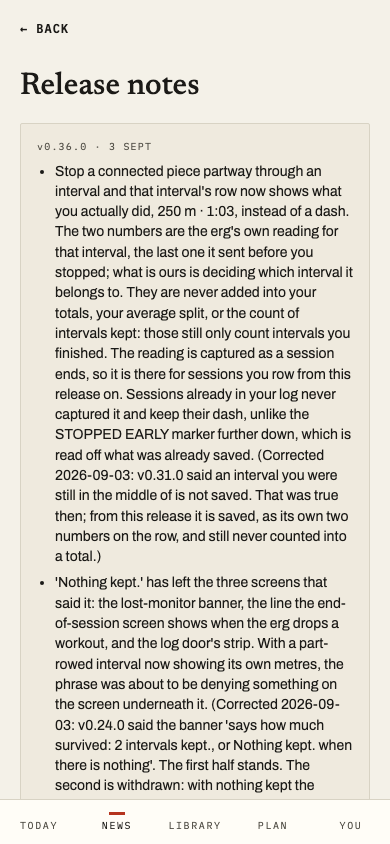
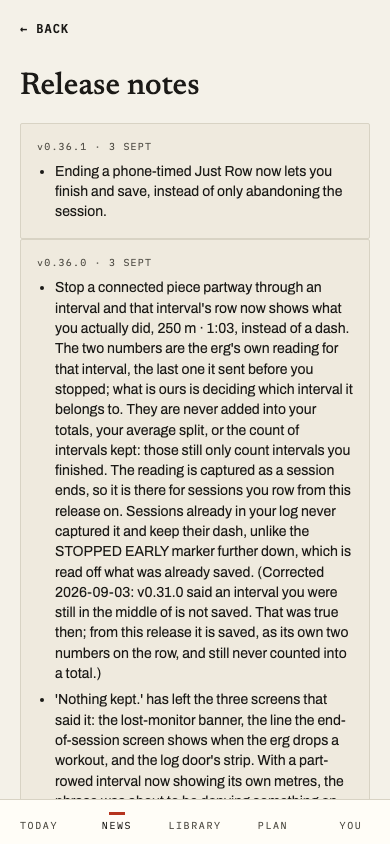
Prepare v0.36.1: Just Row finish-and-save notes (#289)
* Prepare v0.36.1 notes for the Just Row save fix

* Refresh the v0.36.1 Releases capture

Changed region(s): [[0.1231, 0.1848, 0.9231, 0.955]]

diff --git a/app/e2e/news.spec.ts b/app/e2e/news.spec.ts
@@ -184,42 +184,43 @@ test("/news/releases lists every version, newest first", async ({ page }) => {
   // deliberately fails here — that is this pin's job, and it is why the
   // title no longer names a number that goes stale every tag.
   const versions = page.locator(".news-release-version");
-  await expect(versions).toHaveCount(35);
+  await expect(versions).toHaveCount(36);
   await expect(versions.nth(0)).toContainText(NEWEST_RELEASE_VERSION);
-  await expect(versions.nth(1)).toContainText("v0.35.0");
-  await expect(versions.nth(2)).toContainText("v0.34.0");
-  await expect(versions.nth(3)).toContainText("v0.33.0");
-  await expect(versions.nth(4)).toContainText("v0.32.0");
-  await expect(versions.nth(5)).toContainText("v0.31.0");
-  await expect(versions.nth(6)).toContainText("v0.30.0");
-  await expect(versions.nth(7)).toContainText("v0.29.0");
-  await expect(versions.nth(8)).toContainText("v0.28.0");
-  await expect(versions.nth(9)).toContainText("v0.27.0");
-  await expect(versions.nth(10)).toContainText("v0.26.0");
-  await expect(versions.nth(11)).toContainText("v0.25.0");
-  await expect(versions.nth(12)).toContainText("v0.24.0");
-  await expect(versions.nth(13)).toContainText("v0.23.0");
-  await expect(versions.nth(14)).toContainText("v0.22.0");
-  await expect(versions.nth(15)).toContainText("v0.21.0");
-  await expect(versions.nth(16)).toContainText("v0.20.0");
-  await expect(versions.nth(17)).toContainText("v0.19.1");
-  await expect(versions.nth(18)).toContainText("v0.19.0");
-  await expect(versions.nth(19)).toContainText("v0.18.1");
-  await expect(versions.nth(20)).toContainText("v0.18.0");
-  await expect(versions.nth(21)).toContainText("v0.17.0");
-  await expect(versions.nth(22)).toContainText("v0.16.0");
-  await expect(versions.nth(23)).toContainText("v0.15.0");
-  await expect(versions.nth(24)).toContainText("v0.14.0");
-  await expect(versions.nth(25)).toContainText("v0.13.0");
-  await expect(versions.nth(26)).toContainText("v0.12.0");
-  await expect(versions.nth(27)).toContainText("v0.11.0");
-  await expect(versions.nth(28)).toContainText("v0.10.0");
-  await expect(versions.nth(29)).toContainText("v0.9.0");
-  await expect(versions.nth(30)).toContainText("v0.8.0");
-  await expect(versions.nth(31)).toContainText("v0.7.0");
-  await expect(versions.nth(32)).toContainText("v0.5.1");
-  await expect(versions.nth(33)).toContainText("v0.5.0");
-  await expect(versions.nth(34)).toContainText("v0.4.0");
+  await expect(versions.nth(1)).toContainText("v0.36.0");
+  await expect(versions.nth(2)).toContainText("v0.35.0");
+  await expect(versions.nth(3)).toContainText("v0.34.0");
+  await expect(versions.nth(4)).toContainText("v0.33.0");
+  await expect(versions.nth(5)).toContainText("v0.32.0");
+  await expect(versions.nth(6)).toContainText("v0.31.0");
+  await expect(versions.nth(7)).toContainText("v0.30.0");
+  await expect(versions.nth(8)).toContainText("v0.29.0");
+  await expect(versions.nth(9)).toContainText("v0.28.0");
+  await expect(versions.nth(10)).toContainText("v0.27.0");
+  await expect(versions.nth(11)).toContainText("v0.26.0");
+  await expect(versions.nth(12)).toContainText("v0.25.0");
+  await expect(versions.nth(13)).toContainText("v0.24.0");
+  await expect(versions.nth(14)).toContainText("v0.23.0");
+  await expect(versions.nth(15)).toContainText("v0.22.0");
+  await expect(versions.nth(16)).toContainText("v0.21.0");
+  await expect(versions.nth(17)).toContainText("v0.20.0");
+  await expect(versions.nth(18)).toContainText("v0.19.1");
+  await expect(versions.nth(19)).toContainText("v0.19.0");
+  await expect(versions.nth(20)).toContainText("v0.18.1");
+  await expect(versions.nth(21)).toContainText("v0.18.0");
+  await expect(versions.nth(22)).toContainText("v0.17.0");
+  await expect(versions.nth(23)).toContainText("v0.16.0");
+  await expect(versions.nth(24)).toContainText("v0.15.0");
+  await expect(versions.nth(25)).toContainText("v0.14.0");
+  await expect(versions.nth(26)).toContainText("v0.13.0");
+  await expect(versions.nth(27)).toContainText("v0.12.0");
+  await expect(versions.nth(28)).toContainText("v0.11.0");
+  await expect(versions.nth(29)).toContainText("v0.10.0");
+  await expect(versions.nth(30)).toContainText("v0.9.0");
+  await expect(versions.nth(31)).toContainText("v0.8.0");
+  await expect(versions.nth(32)).toContainText("v0.7.0");
+  await expect(versions.nth(33)).toContainText("v0.5.1");
+  await expect(versions.nth(34)).toContainText("v0.5.0");
+  await expect(versions.nth(35)).toContainText("v0.4.0");
 });
 
 test("item 1 / round 4: opening an article from a scrolled News feed lands the reader at the top of its OWN scroller, and ← BACK now restores News's own scroll position (CL item: News scroll memory)", async ({

diff --git a/app/src/news/content/releaseNotes.ts b/app/src/news/content/releaseNotes.ts
@@ -5,6 +5,16 @@ import type { ReleaseNote } from "./types";
 // would notice, and internal-only releases are skipped.
 export const RELEASE_NOTES: ReleaseNote[] = [
   {
+    // v0.36.1: git log v0.36.0..origin/main --oneline at 9baa4fa7.
+    // #288 is the item below; #287 defers Correct Resume in docs only,
+    // with nothing tester-visible. This notes/capture PR adds no behavior.
+    version: "v0.36.1",
+    date: "2026-09-03",
+    items: [
+      "Ending a phone-timed Just Row now lets you finish and save, instead of only abandoning the session.",
+    ],
+  },
+  {
     // v0.36.0 (2026-09-03): range v0.35.0..main RE-ACCOUNTED at AUD-011/015's
     // own PR-open head per RF15 (`git log v0.35.0..origin/main --oneline`,
     // NO `--merges` — main is squash-merged and that form returns empty).

diff --git a/app/e2e/releasePin.ts b/app/e2e/releasePin.ts
@@ -16,4 +16,4 @@
  *  claims.
  *
  *  Bump alongside each release-notes PR. */
-export const NEWEST_RELEASE_VERSION = "v0.36.0";
+export const NEWEST_RELEASE_VERSION = "v0.36.1";
